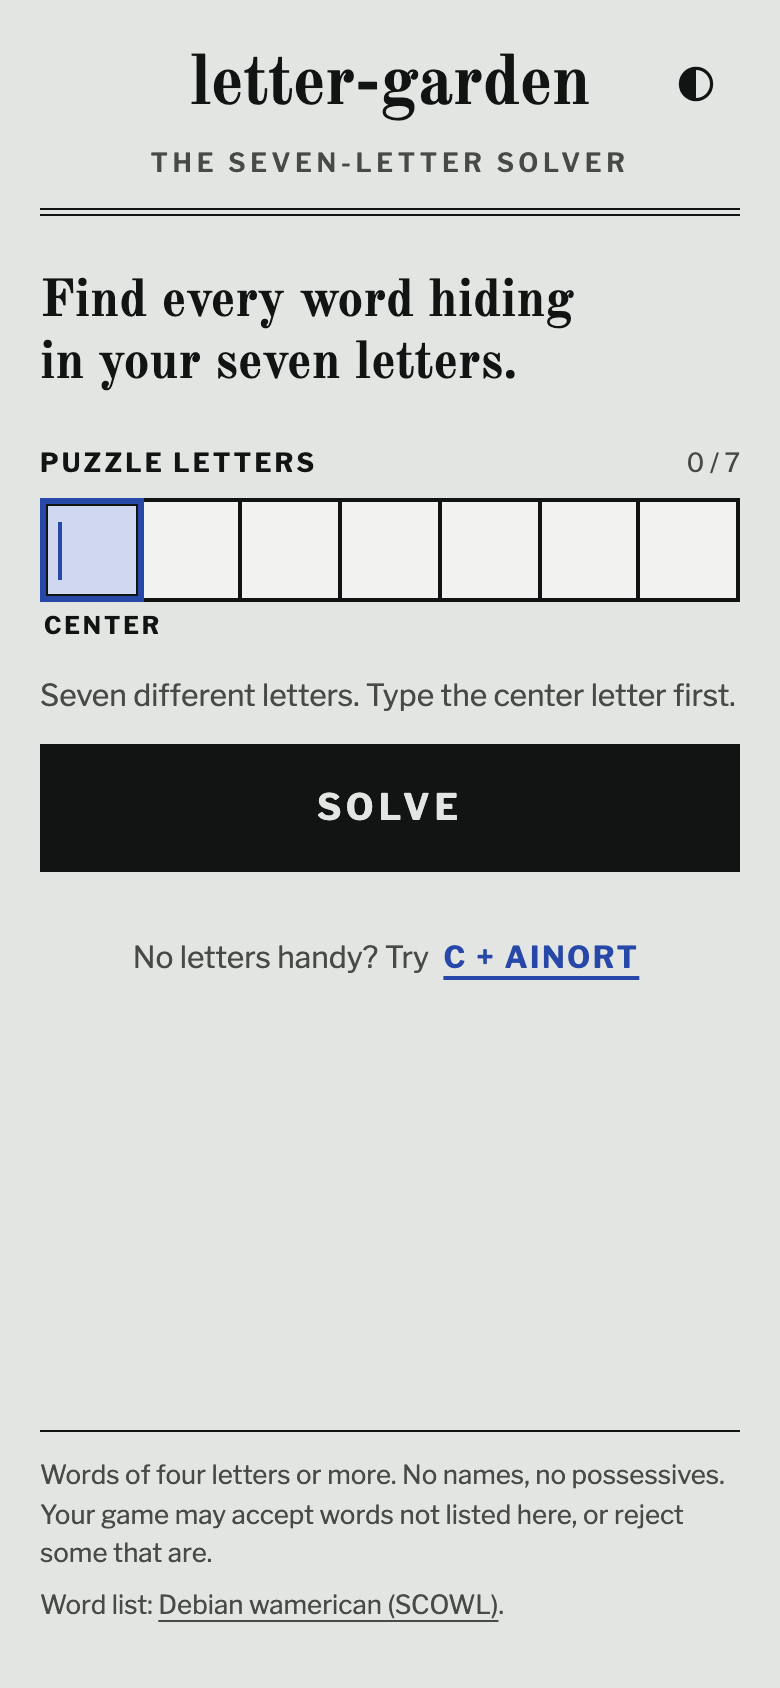
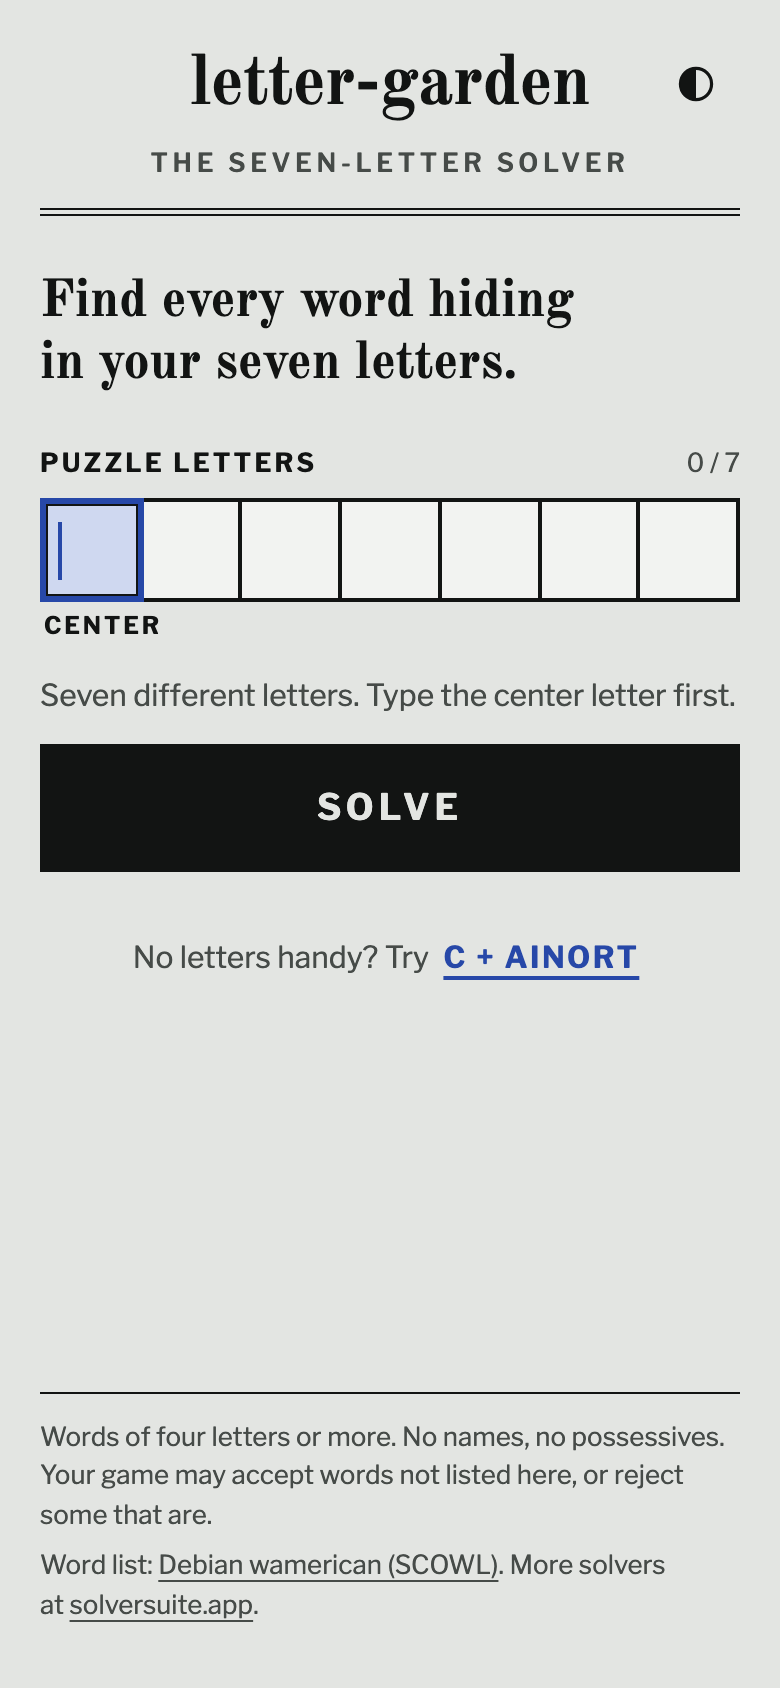
feat: link each solver's footer to solversuite.app
Add "More solvers at solversuite.app" to the credit line in
raga-man's and letter-garden's footers, so someone using one
solver can find the rest through the index. It sits on the
existing line rather than adding a paragraph.

- Test the link's target and exact wording on home and results;
  a line break before the link once rendered "atsolversuite.app"
- Regenerate the README screenshots, which show the footer

Changed region(s): [[0.0308, 0.8318, 0.9231, 0.955]]

diff --git a/apps/letter-garden/e2e/footer.spec.ts b/apps/letter-garden/e2e/footer.spec.ts
@@ -1,0 +1,12 @@
+import { test, expect } from '@playwright/test';
+
+for (const path of ['/', '/results?letters=acinort&required=c']) {
+  test(`the footer points to the rest of the suite (${path})`, async ({ page }) => {
+    await page.goto(path);
+    const link = page.locator('footer.foot').getByRole('link', { name: 'solversuite.app' });
+    await expect(link).toHaveAttribute('href', 'https://solversuite.app/');
+    await expect(page.locator('footer.foot p').last()).toHaveText(/Debian wamerican \(SCOWL\)\. More solvers at solversuite\.app\.$/);
+    // It shares the credit line rather than adding one.
+    await expect(page.locator('footer.foot p')).toHaveCount(2);
+  });
+}

diff --git a/apps/raga-man/e2e/footer.spec.ts b/apps/raga-man/e2e/footer.spec.ts
@@ -1,0 +1,12 @@
+import { test, expect } from '@playwright/test';
+
+for (const path of ['/', '/results?letters=listen']) {
+  test(`the footer points to the rest of the suite (${path})`, async ({ page }) => {
+    await page.goto(path);
+    const link = page.locator('footer.foot').getByRole('link', { name: 'solversuite.app' });
+    await expect(link).toHaveAttribute('href', 'https://solversuite.app/');
+    await expect(page.locator('footer.foot p').last()).toHaveText(/Debian wamerican \(SCOWL\)\. More solvers at solversuite\.app\.$/);
+    // It shares the credit line rather than adding one.
+    await expect(page.locator('footer.foot p')).toHaveCount(2);
+  });
+}
